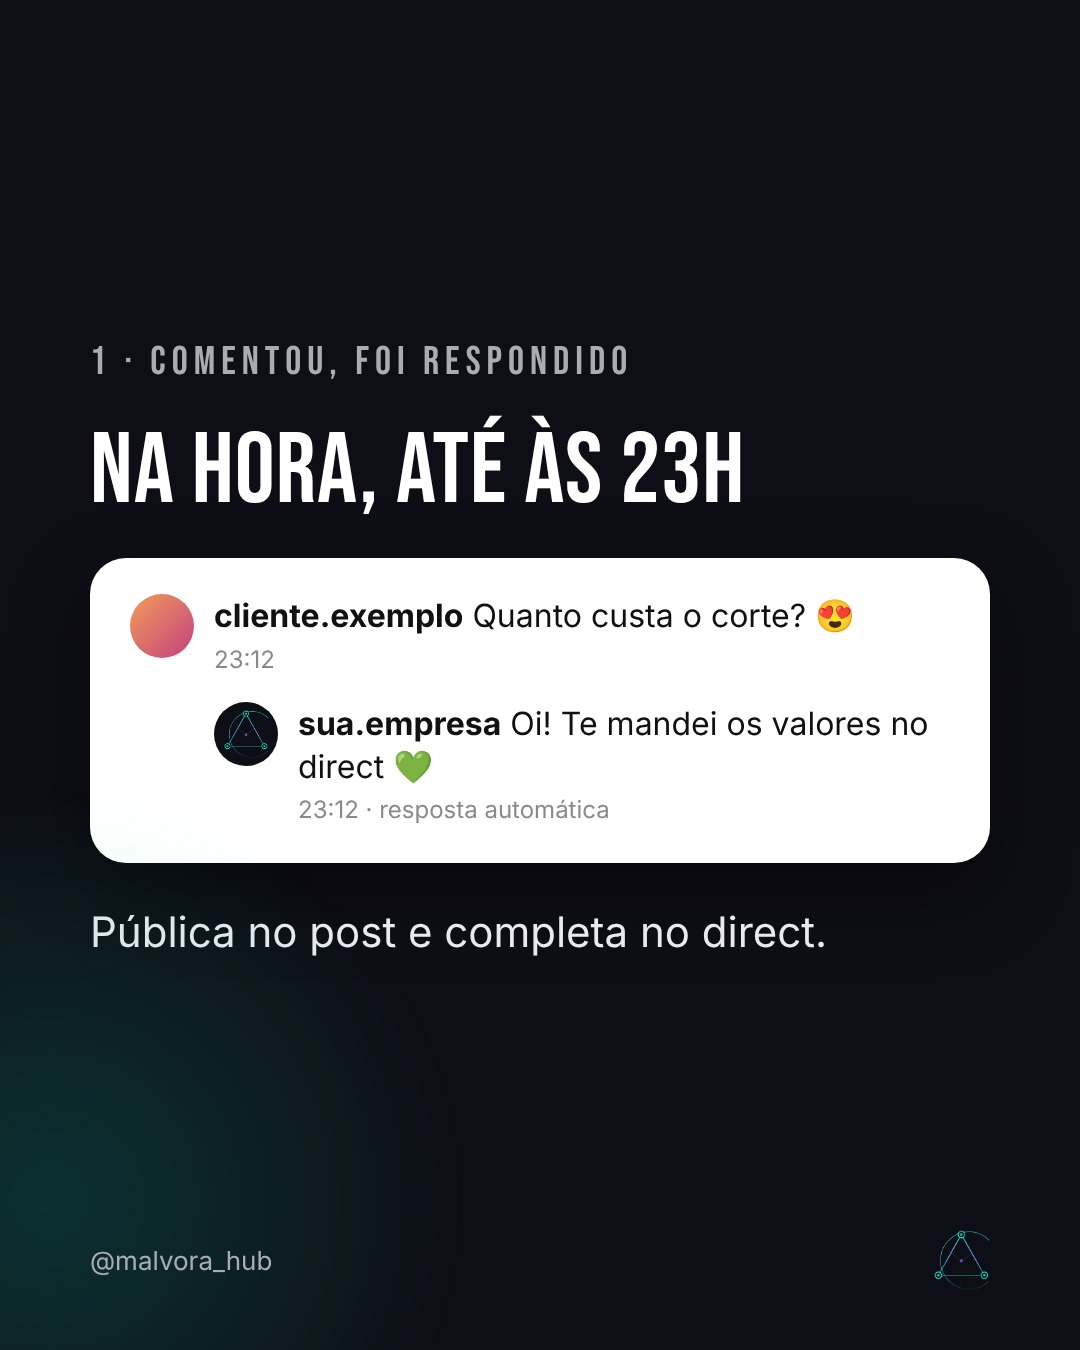
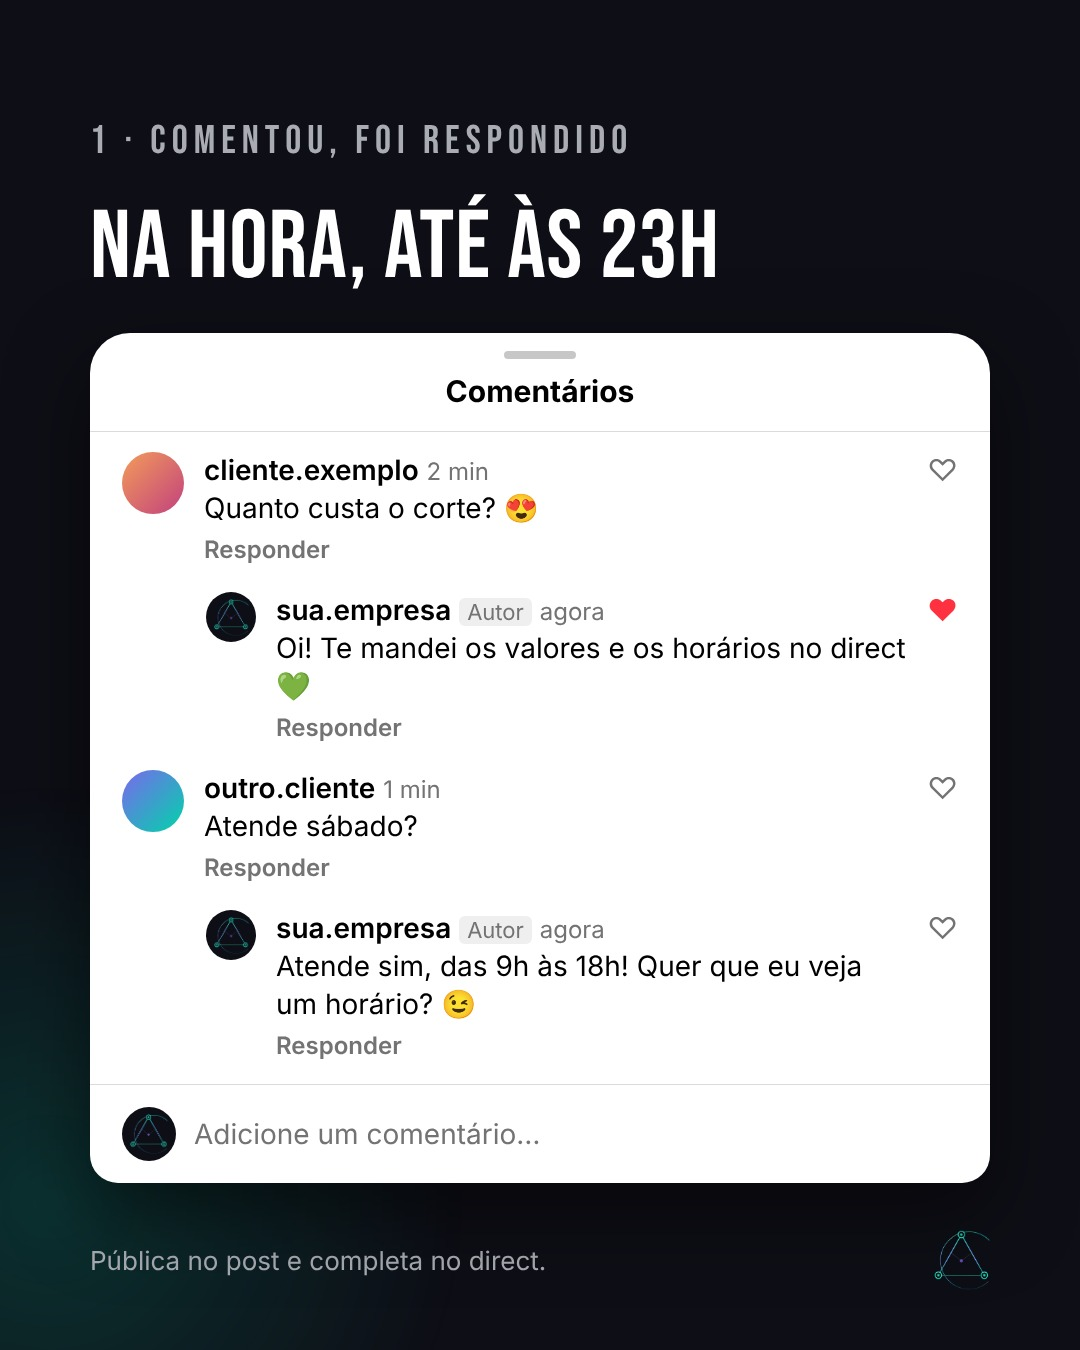
feat(conteudo): slide 2 do carrossel fiel aos comentários do Instagram
Claude-Session: https://claude.ai/code/session_01BjUtgfjoU4JRqxZijLSVJq

diff --git a/conteudo/carrossel-malvora-social/_fonte/carrossel.html b/conteudo/carrossel-malvora-social/_fonte/carrossel.html
@@ -16,6 +16,16 @@ body{width:1080px}
 .alerta{background:#2A1416;border:2px solid #E5484D;border-radius:28px;padding:30px 34px;font:600 34px/1.4 Inter;color:#FFD7D9}
 .ok{background:#0B3A33;border:2px solid #00D4AA;border-radius:28px;padding:30px 34px;font:600 34px/1.4 Inter;color:#E8FFF8}
 .seta{position:absolute;right:90px;bottom:62px;font:700 30px Inter;color:#00D4AA}
+.tela{position:relative;z-index:1;background:#fff;color:#000;border-radius:40px 40px 28px 28px;overflow:hidden;box-shadow:0 30px 80px rgba(0,0,0,.5);font-family:-apple-system,"Helvetica Neue",Inter,sans-serif}
+.tela-topo{display:flex;flex-direction:column;align-items:center;gap:14px;padding:18px 0 22px;border-bottom:1px solid #dbdbdb;font-size:30px}
+.pega{width:72px;height:8px;border-radius:8px;background:#c7c7c7}
+.cm{display:flex;gap:20px;padding:20px 32px 6px;align-items:flex-start}.cm.resp{padding-left:116px}
+.cm .av{flex:none;width:62px;height:62px;border-radius:50%;background:linear-gradient(135deg,#F39C5A,#C2417E)}.cm.resp .av{width:50px;height:50px}
+.cm .av.a2{background:linear-gradient(135deg,#7B68EE,#00D4AA)}.av.m{background:#0E0E16 url(file:///home/user/test/conteudo/marca/simbolo-principal.png) center/70% no-repeat!important}
+.tx{flex:1;font-size:28px;line-height:1.35}.tx p{margin:0}.tx b{font-weight:600}.tx i{font-style:normal;color:#737373;font-size:24px}
+.aut{font-size:22px;color:#737373;background:#efefef;border-radius:6px;padding:1px 8px}
+.acoes{color:#737373;font-size:24px;font-weight:600;margin-top:6px!important}.cor{font-size:30px;color:#737373}.cor.v{color:#ff3040}
+.campo-c{display:flex;gap:18px;align-items:center;border-top:1px solid #dbdbdb;margin-top:16px;padding:22px 32px;color:#737373;font-size:28px}.campo-c .av{width:54px;height:54px;border-radius:50%}
 </style></head><body>
 <section class="s" id="c1" style="justify-content:center"><div class="tex"></div><div class="glow" style="right:-300px;top:-300px"></div>
  <div class="n">MALVORA SOCIAL</div>
@@ -24,11 +34,16 @@ body{width:1080px}
  <div class="seta">arraste →</div></section>
 <section class="s" id="c2"><div class="glow" style="left:-400px;bottom:-300px"></div>
  <div class="n">1 · COMENTOU, FOI RESPONDIDO</div>
- <div class="h" style="font-size:100px">Na hora, até às 23h</div>
- <div class="ig"><div class="c"><div class="av"></div><div><b>cliente.exemplo</b> Quanto custa o corte? 😍<small>23:12</small></div></div>
- <div class="c r"><div class="av m"></div><div><b>sua.empresa</b> Oi! Te mandei os valores no direct 💚<small>23:12 · resposta automática</small></div></div></div>
- <div class="t">Pública no post e completa no direct.</div>
- <div class="rod"><span>@malvora_hub</span><img src="file:///home/user/test/conteudo/marca/simbolo-principal.png"></div></section>
+ <div class="h" style="font-size:96px">Na hora, até às 23h</div>
+ <div class="tela">
+  <div class="tela-topo"><span class="pega"></span><b>Comentários</b></div>
+  <div class="cm"><div class="av"></div><div class="tx"><p><b>cliente.exemplo</b> <i>2 min</i></p><p>Quanto custa o corte? 😍</p><p class="acoes">Responder</p></div><div class="cor">♡</div></div>
+  <div class="cm resp"><div class="av m"></div><div class="tx"><p><b>sua.empresa</b> <span class="aut">Autor</span> <i>agora</i></p><p>Oi! Te mandei os valores e os horários no direct 💚</p><p class="acoes">Responder</p></div><div class="cor v">♥</div></div>
+  <div class="cm"><div class="av a2"></div><div class="tx"><p><b>outro.cliente</b> <i>1 min</i></p><p>Atende sábado?</p><p class="acoes">Responder</p></div><div class="cor">♡</div></div>
+  <div class="cm resp"><div class="av m"></div><div class="tx"><p><b>sua.empresa</b> <span class="aut">Autor</span> <i>agora</i></p><p>Atende sim, das 9h às 18h! Quer que eu veja um horário? 😉</p><p class="acoes">Responder</p></div><div class="cor">♡</div></div>
+  <div class="campo-c"><div class="av m"></div><span>Adicione um comentário…</span></div>
+ </div>
+ <div class="rod"><span>Pública no post e completa no direct.</span><img src="file:///home/user/test/conteudo/marca/simbolo-principal.png"></div></section>
 <section class="s" id="c3"><div class="glow" style="right:-350px;top:-250px"></div>
  <div class="n">2 · DO SEU JEITO</div>
  <div class="h" style="font-size:100px">Você define as regras</div>
